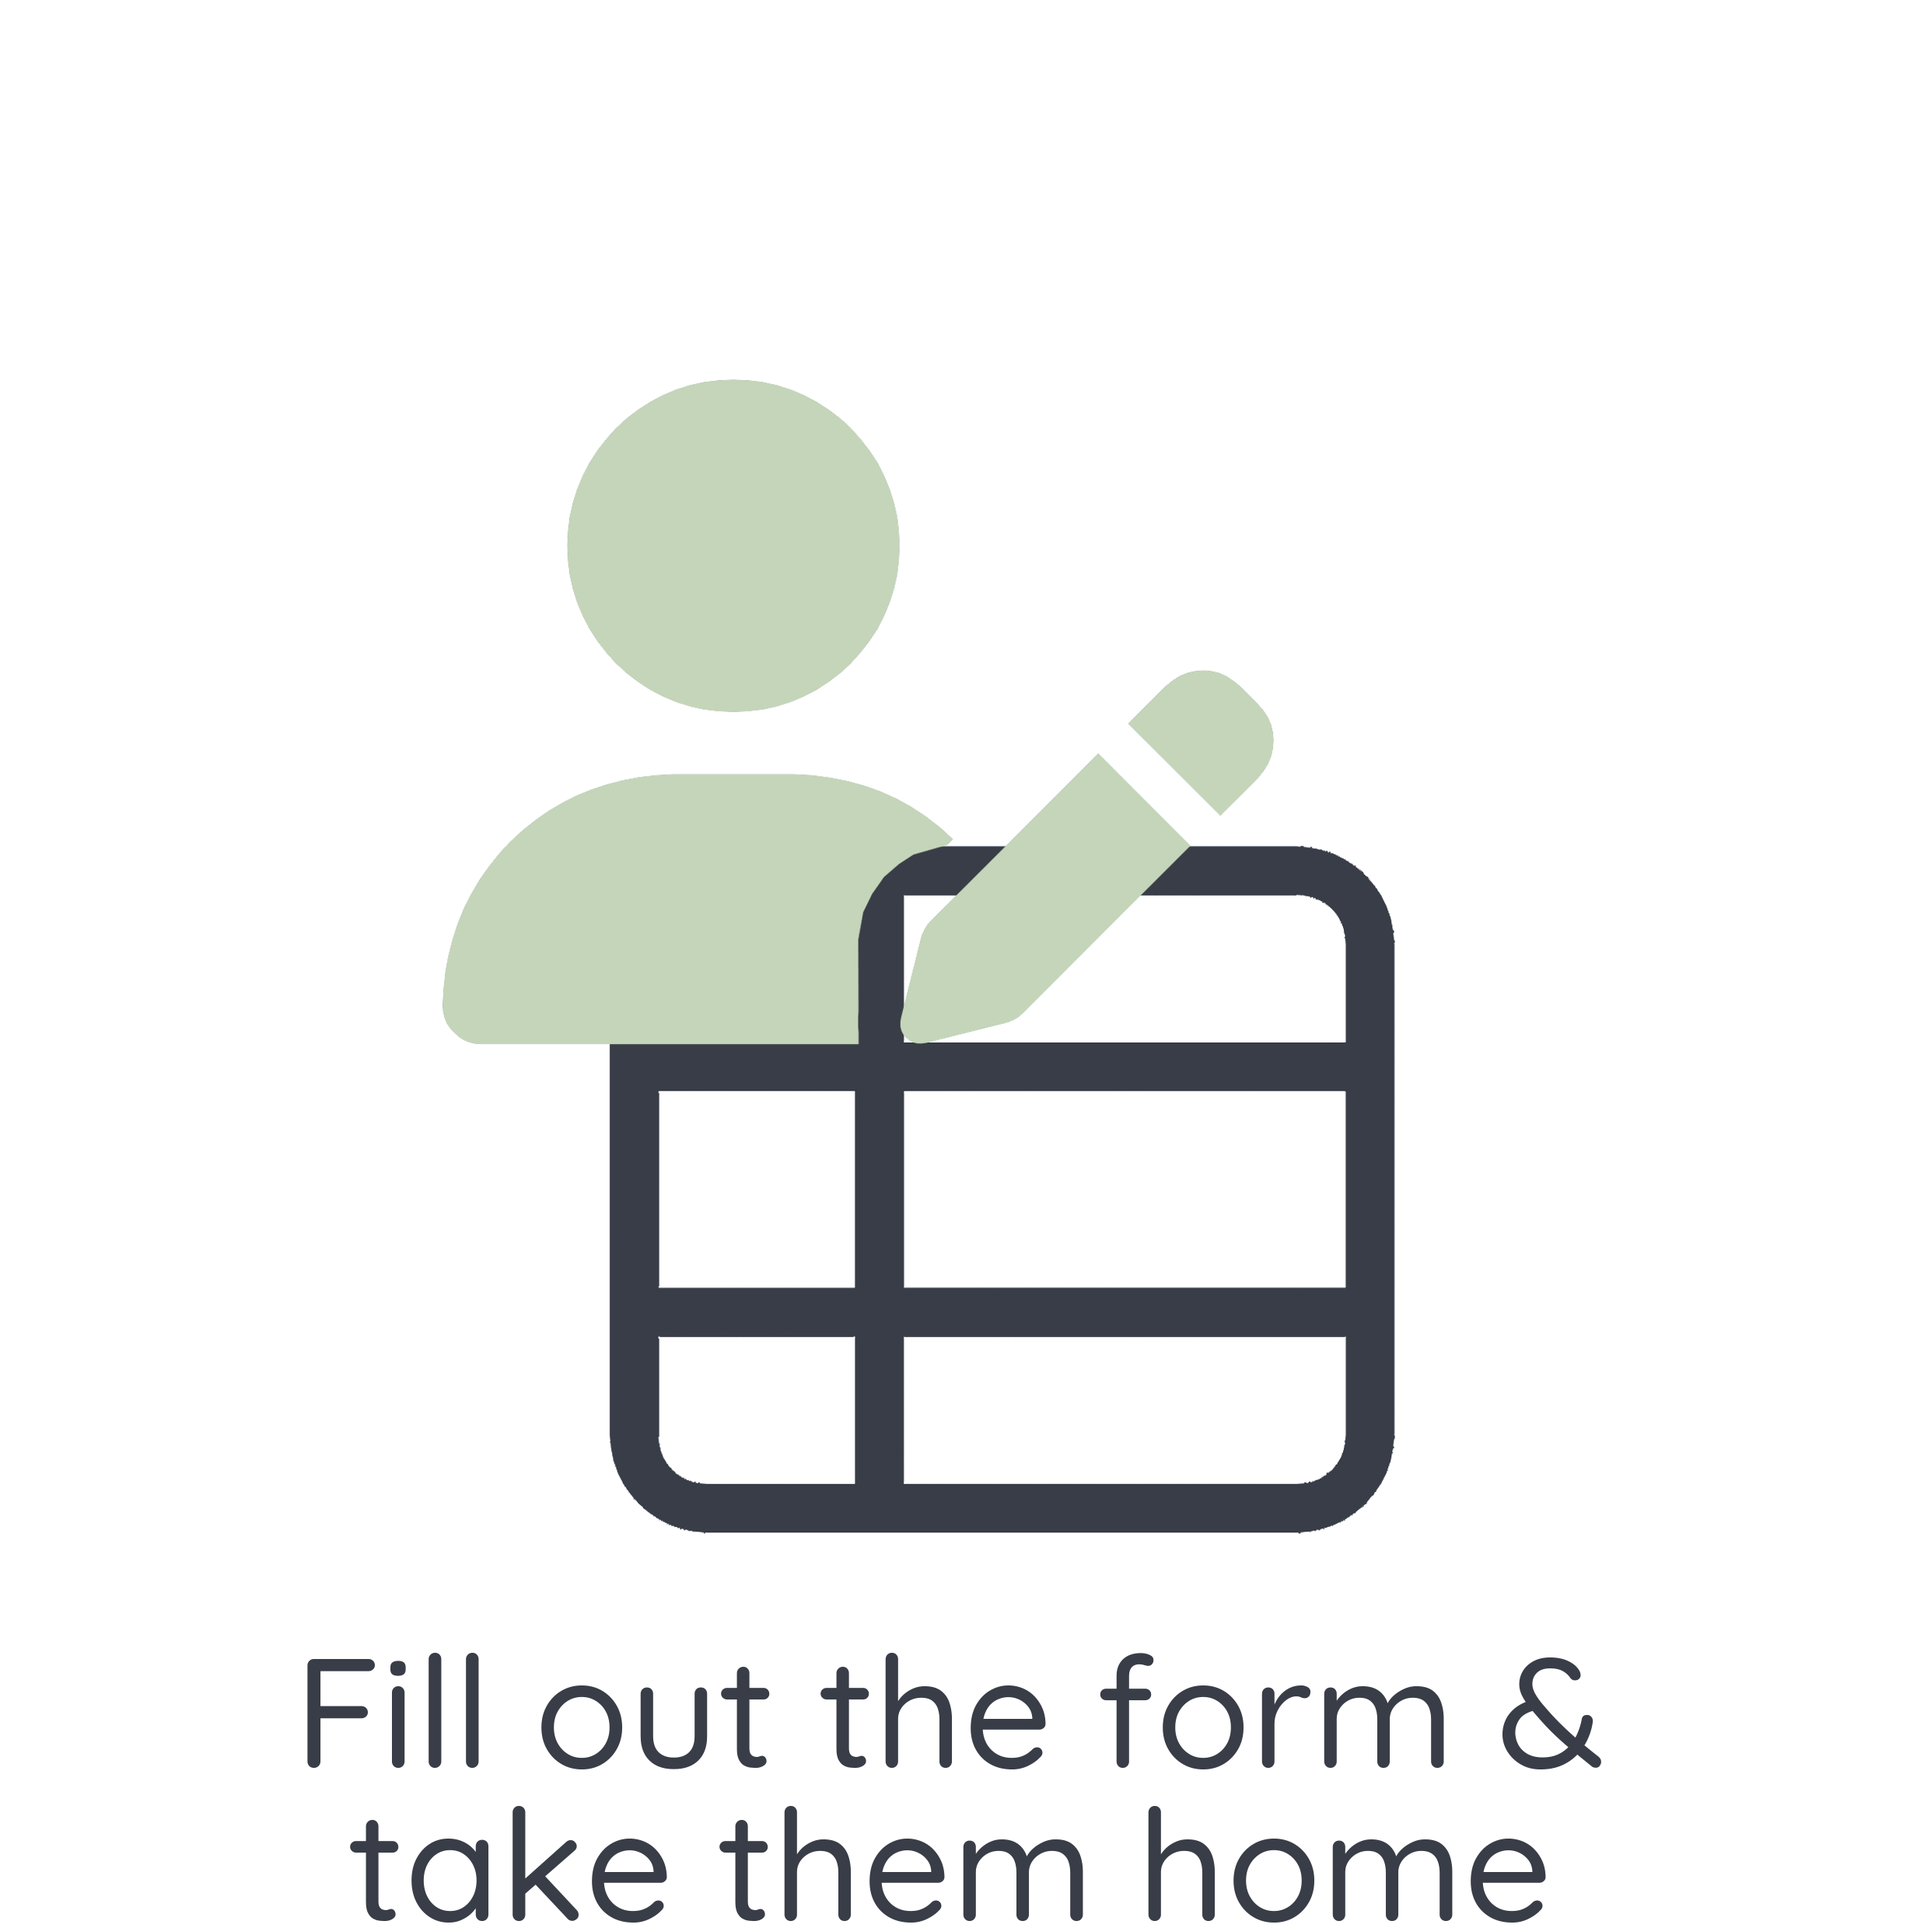
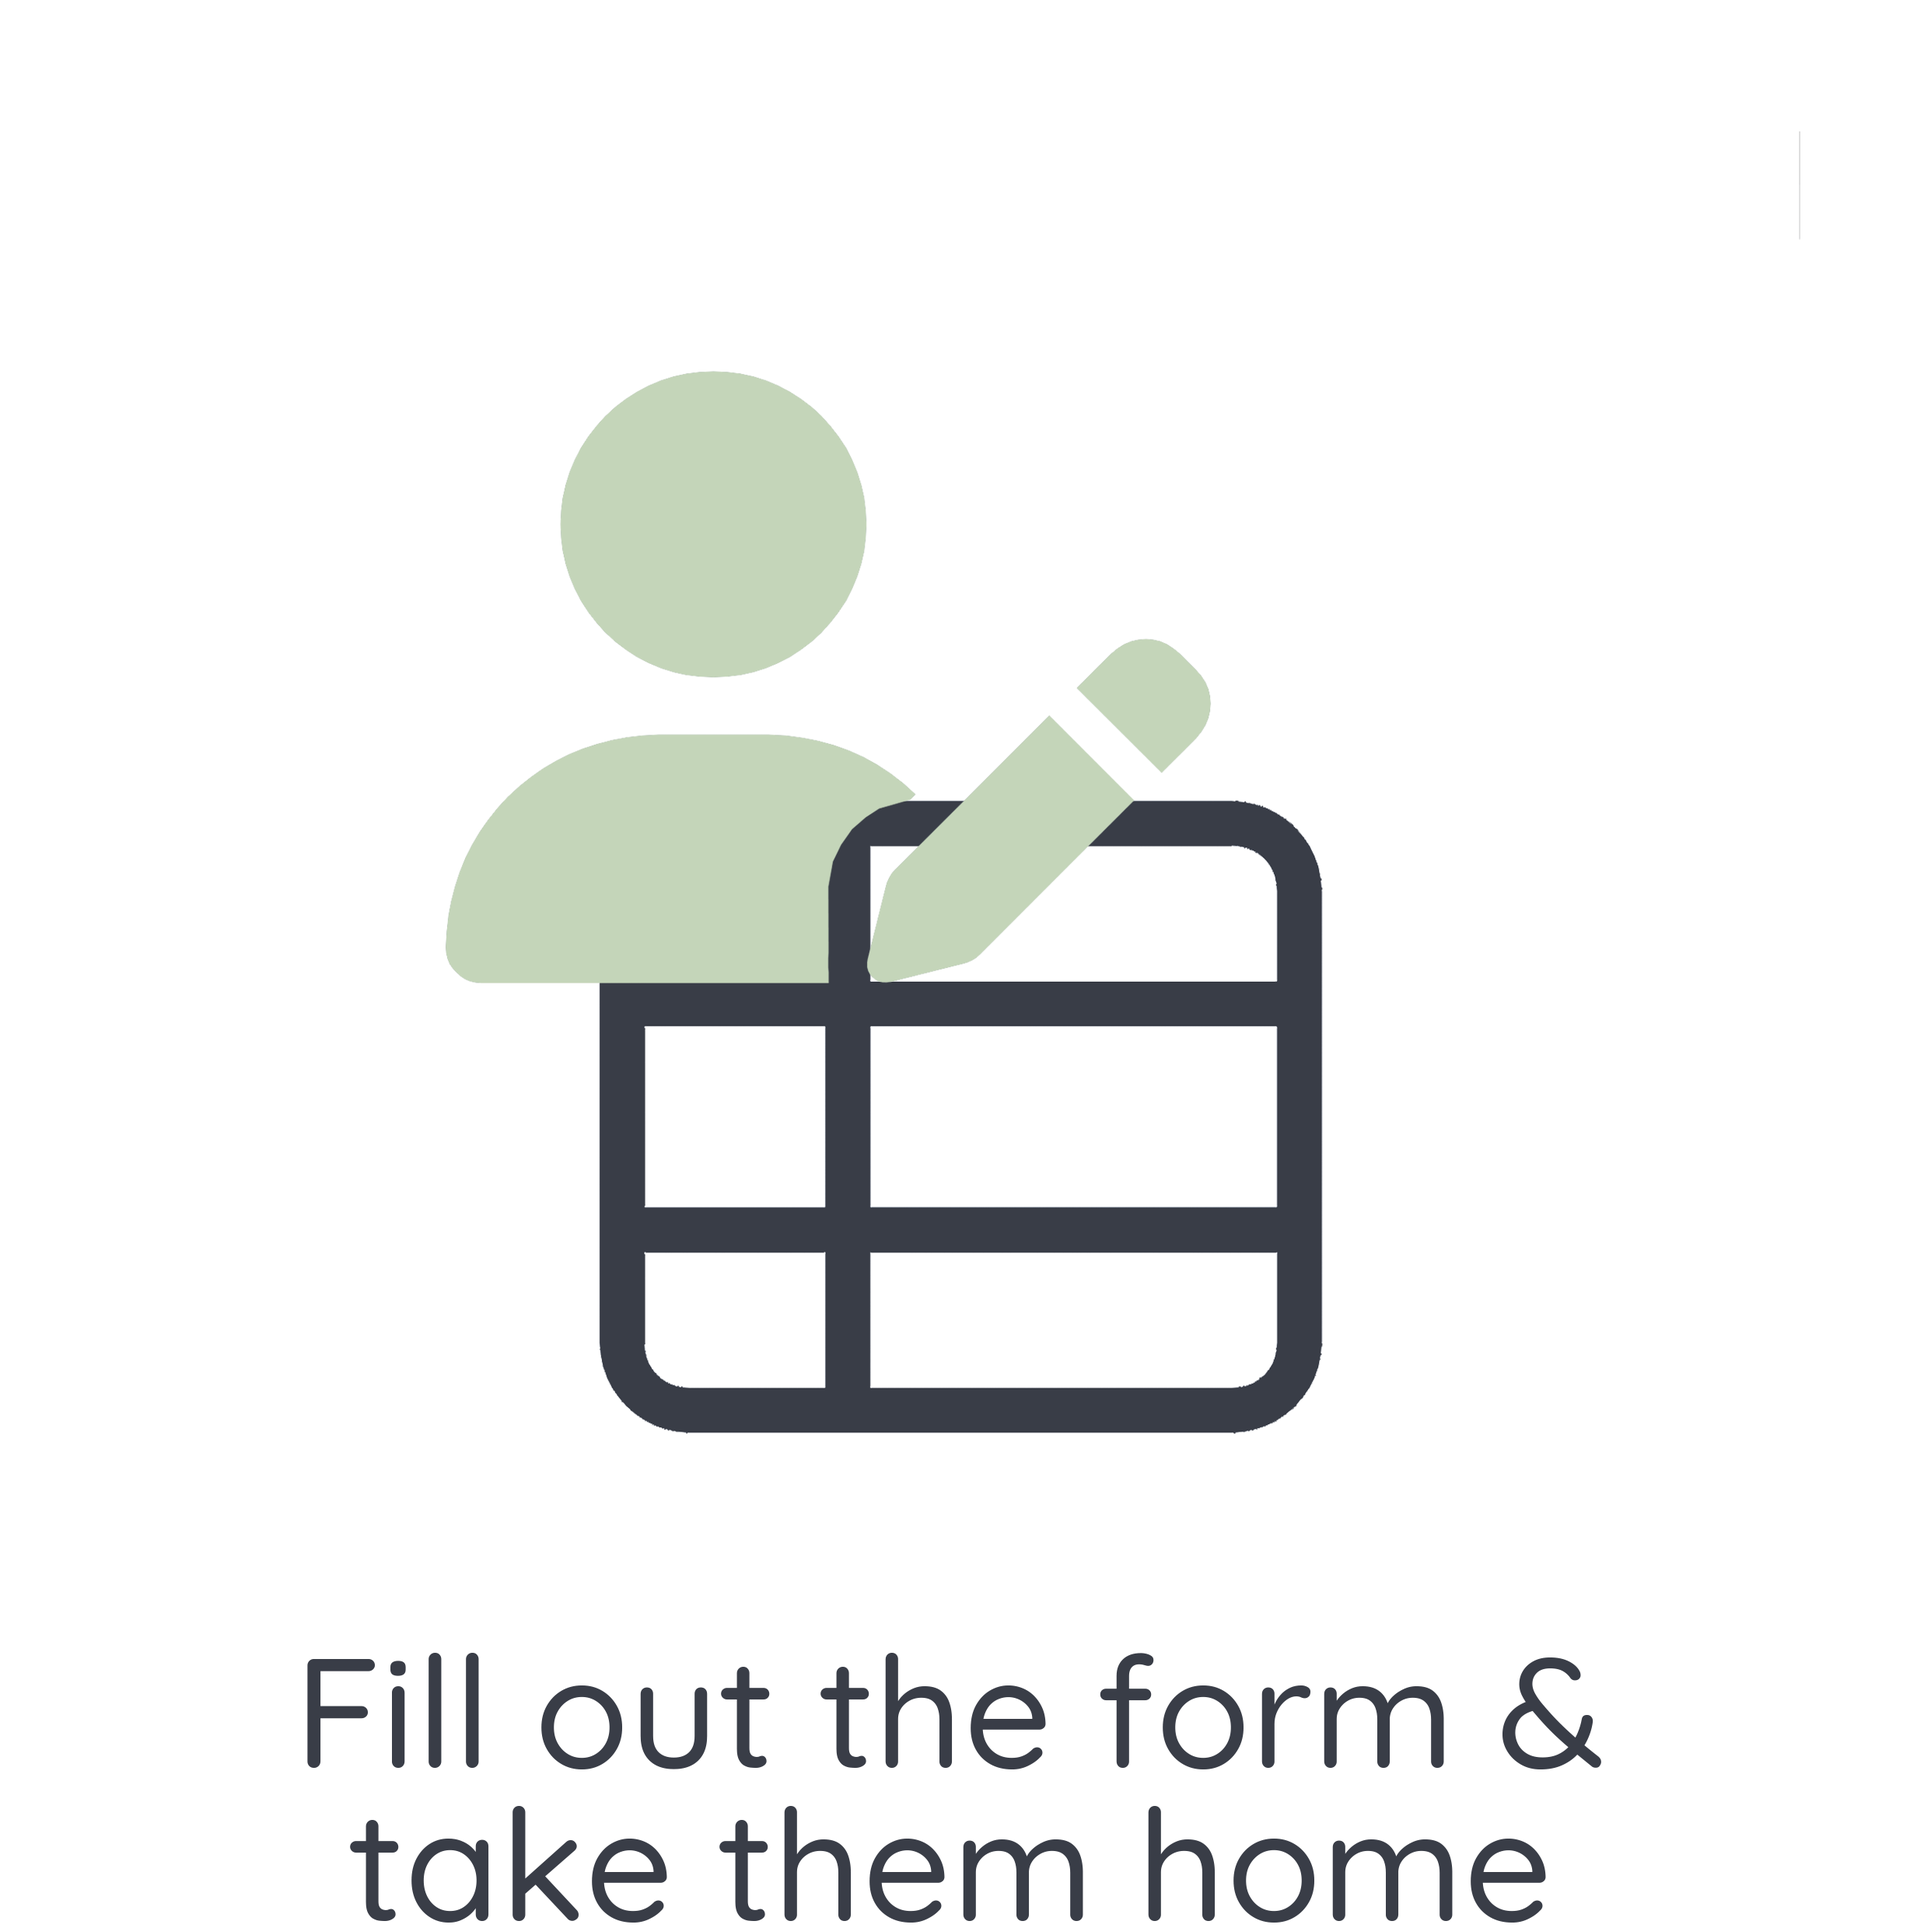
Edit css styling

Changed region(s): [[0.2166, 0.2173, 0.7427, 0.8073], [0.2785, 0.1863, 0.4023, 0.2794]]

diff --git a/app/page.module.scss b/app/page.module.scss
@@ -201,7 +201,7 @@
 
 .process-image-container {
   display: flex;
-  justify-content: center;
+  justify-content: space-between;
   align-items: center;
   flex-wrap: wrap;
   gap: 20px;
